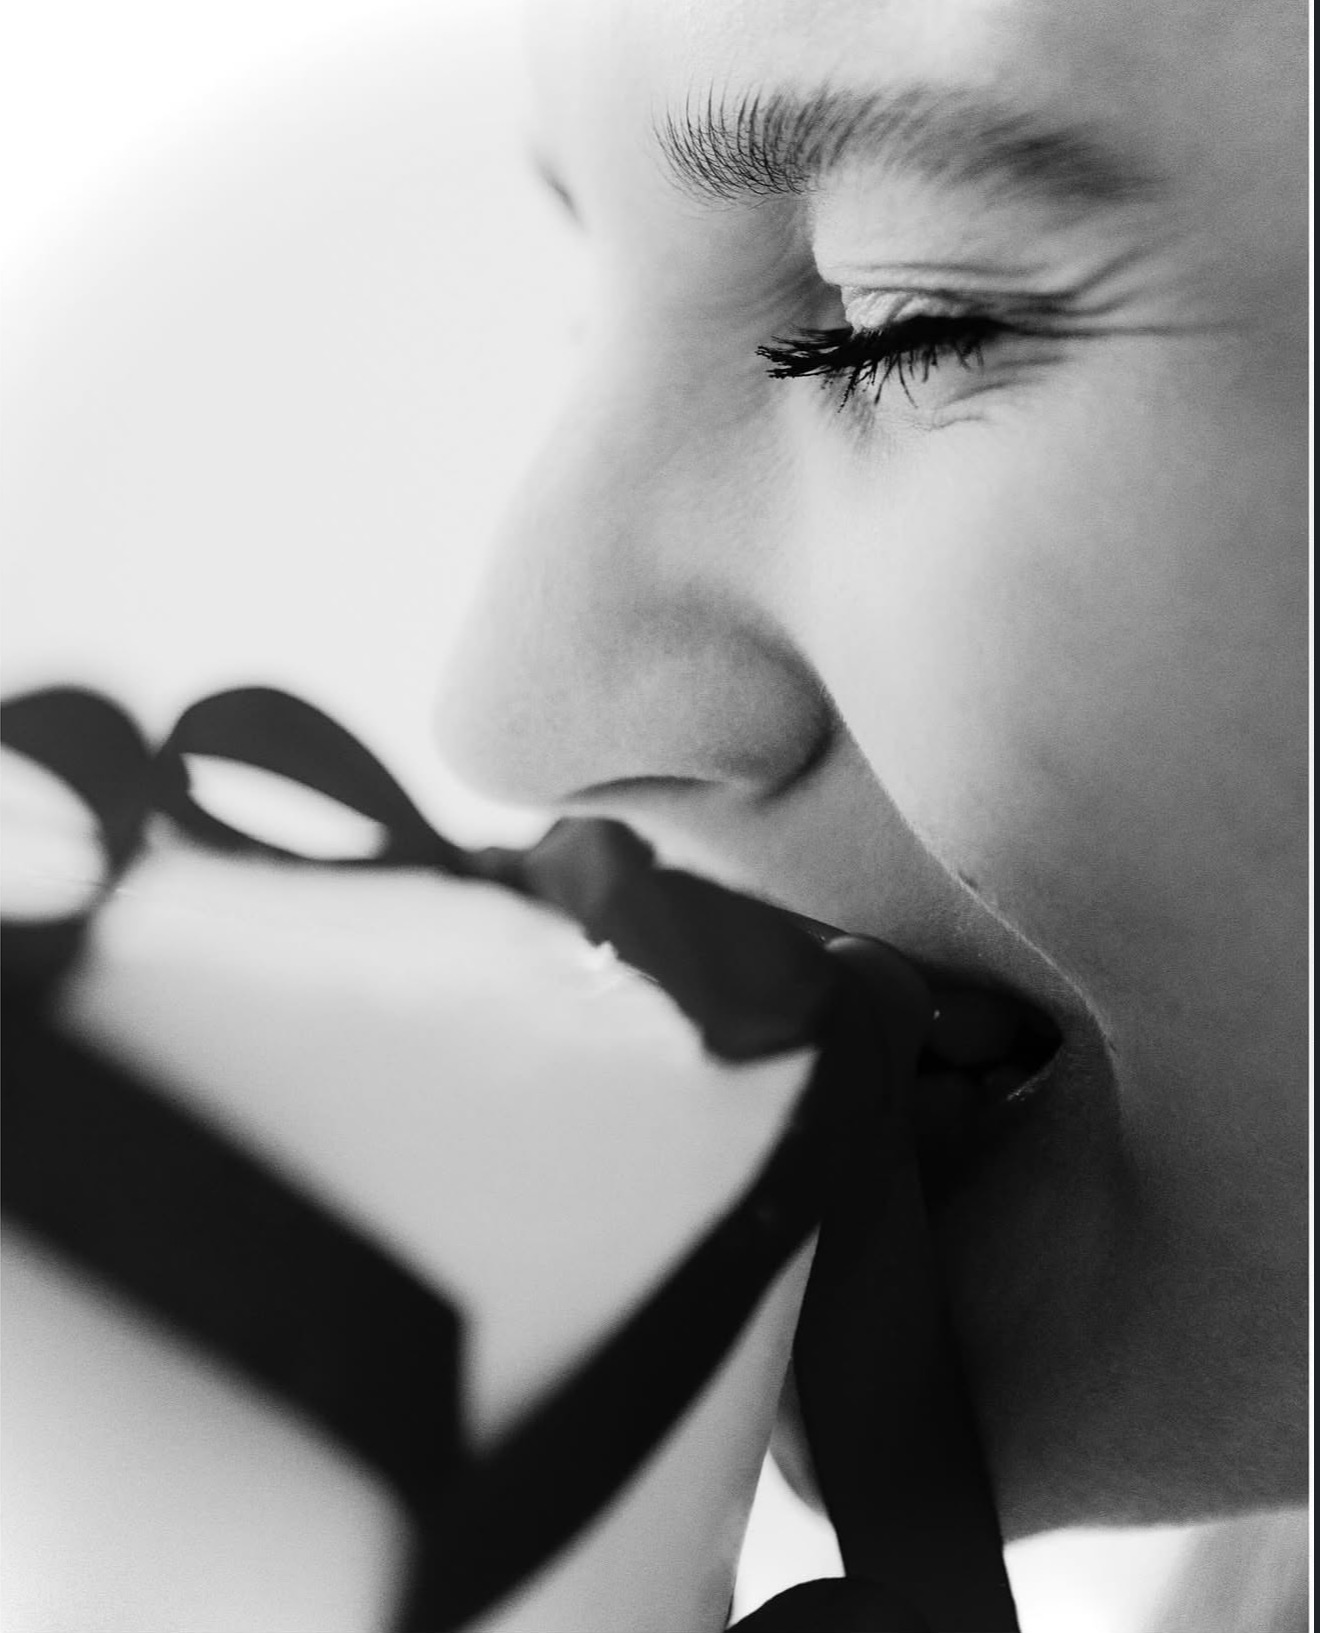
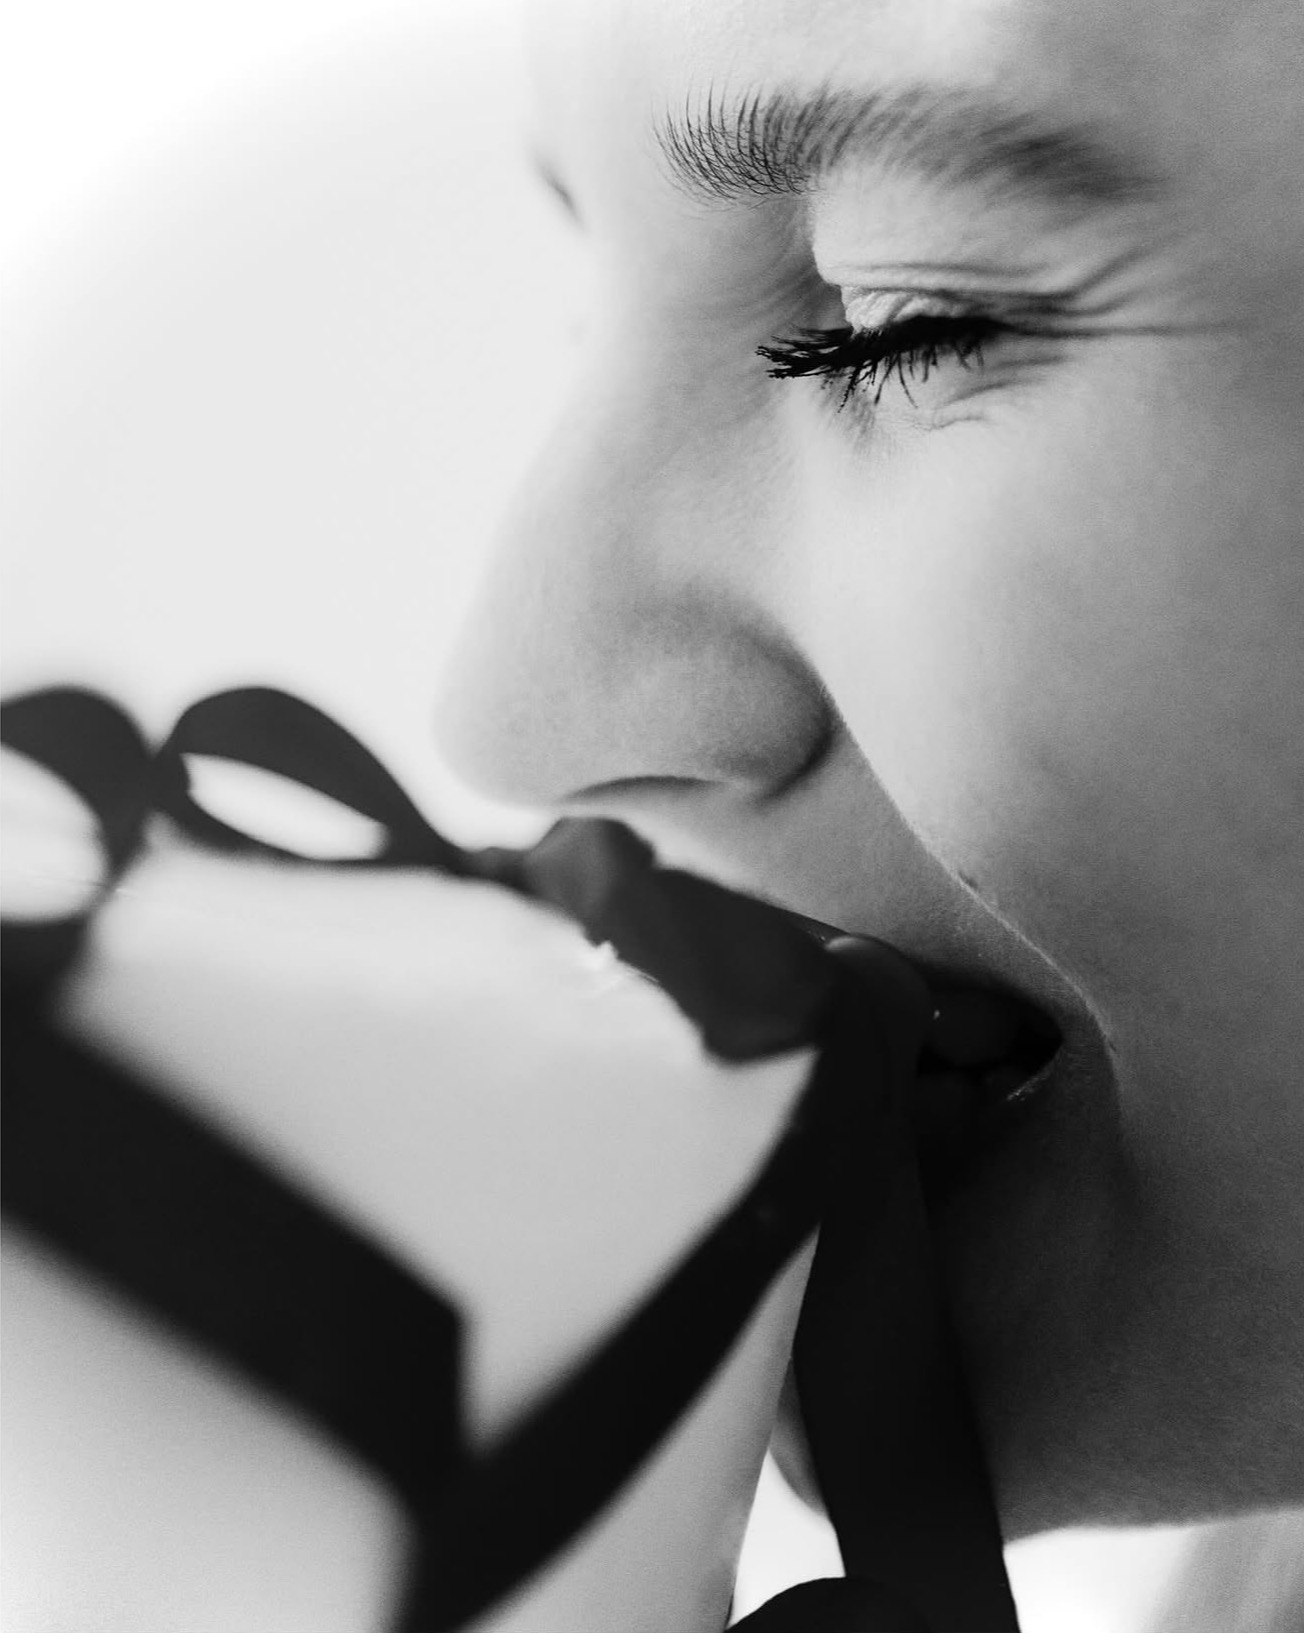
Build 0.3
+ Added Loop to photo caousel
+ Added Stickers to each section
- Cropped a photo to remove black border artefact

diff --git a/index.html b/index.html
@@ -39,9 +39,9 @@
       <section class="selected-work" aria-labelledby="selected-title">
         <div class="section-heading"><div><h2 id="selected-title">Work profile<span class="accent">.</span></h2></div></div>
         <div class="work-grid">
-          <a class="work-card" href="#pr-media"><div class="work-art art-press"><strong>PR &<br>media</strong><span class="art-foot">MEDIA RELATIONS / COMMUNICATIONS</span></div><h3>Press & communications</h3><p>Press releases and experience organising press tours.</p></a>
-          <a class="work-card" href="#social-content"><div class="work-art art-social"><strong>Social &<br>content</strong><span class="art-foot">INSTAGRAM / PHOTOGRAPHY / REELS</span></div><h3>My Instagram blog</h3><p>Photos and short videos about travel, languages and life in Australia.</p></a>
-          <a class="work-card" href="#video-production"><div class="work-art art-video"><strong>Video &<br>production</strong><span class="art-foot">TELEVISION / FILM / PRODUCTION</span></div><h3>Television & video projects</h3><p>Television projects, documentaries, interviews and a photography gallery.</p></a>
+          <a class="work-card" href="#pr-media"><div class="work-art art-press"><strong>PR &<br>media</strong><span class="art-foot">MEDIA RELATIONS / COMMUNICATIONS</span><svg class="work-sticker sticker-press" viewBox="0 0 80 80" aria-hidden="true"><path d="M17 31h39a5 5 0 0 1 5 5v25a5 5 0 0 1-5 5H17a5 5 0 0 1-5-5V36a5 5 0 0 1 5-5Zm8-8h17l5 8H20l5-8Z"/><circle cx="39" cy="48" r="12"/><circle class="sticker-detail" cx="39" cy="48" r="6"/><path d="M61 38h6v8h-6"/></svg></div><h3>Press & communications</h3><p>Press releases and experience organising press tours.</p></a>
+          <a class="work-card" href="#social-content"><div class="work-art art-social"><strong>Social &<br>content</strong><span class="art-foot">INSTAGRAM / PHOTOGRAPHY / REELS</span><svg class="work-sticker sticker-social" viewBox="0 0 80 80" aria-hidden="true"><rect x="23" y="11" width="38" height="60" rx="9"/><path class="sticker-detail" d="M36 18h12M37 63h10"/><rect class="sticker-detail" x="29" y="25" width="26" height="29" rx="3"/><path d="M42 47s-8-4-8-9a4 4 0 0 1 8-2 4 4 0 0 1 8 2c0 5-8 9-8 9Z"/></svg></div><h3>My Instagram blog</h3><p>Photos and short videos about travel, languages and life in Australia.</p></a>
+          <a class="work-card" href="#video-production"><div class="work-art art-video"><strong>Video &<br>production</strong><span class="art-foot">TELEVISION / FILM / PRODUCTION</span><svg class="work-sticker sticker-video" viewBox="0 0 80 80" aria-hidden="true"><path d="M15 26h52v39H15zM15 26l8-12h52l-8 12z"/><path class="sticker-detail" d="m28 15-8 11m24-11-8 11m24-11-8 11M23 35h35"/><path d="M31 43v15l14-7.5L31 43Z"/></svg></div><h3>Television & video projects</h3><p>Television projects, documentaries, interviews and a photography gallery.</p></a>
         </div>
       </section>
       <div class="contact-band"><h2>Have a role or project in mind?</h2><a class="button light" href="#contact">Get in touch</a></div>

diff --git a/app.js b/app.js
@@ -207,12 +207,23 @@ function updateCarousel() {
   const progress = document.querySelector('.carousel-progress span');
   progress.style.width = `${visibleFraction * 100}%`;
   progress.style.left = `${photoTrack.scrollLeft / photoTrack.scrollWidth * 100}%`;
-  carouselPrevious.disabled = photoTrack.scrollLeft <= 2;
-  carouselNext.disabled = photoTrack.scrollLeft + photoTrack.clientWidth >= photoTrack.scrollWidth - 2;
 }
 function moveCarousel(direction) {
-  const distance = photoLinks[0]?.getBoundingClientRect().width || photoTrack.clientWidth;
-  photoTrack.scrollBy({left: direction * (distance + 20), behavior: matchMedia('(prefers-reduced-motion: reduce)').matches ? 'instant' : 'smooth'});
+  if (photoLinks.length < 2) return;
+  const maxScroll = photoTrack.scrollWidth - photoTrack.clientWidth;
+  const atStart = photoTrack.scrollLeft <= 2;
+  const atEnd = photoTrack.scrollLeft >= maxScroll - 2;
+  const behavior = matchMedia('(prefers-reduced-motion: reduce)').matches ? 'instant' : 'smooth';
+  if (direction < 0 && atStart) {
+    photoTrack.scrollTo({left: maxScroll, behavior});
+    return;
+  }
+  if (direction > 0 && atEnd) {
+    photoTrack.scrollTo({left: 0, behavior});
+    return;
+  }
+  const distance = photoLinks[0].getBoundingClientRect().width || photoTrack.clientWidth;
+  photoTrack.scrollBy({left: direction * (distance + 20), behavior});
 }
 carouselPrevious.addEventListener('click', () => moveCarousel(-1));
 carouselNext.addEventListener('click', () => moveCarousel(1));

diff --git a/styles.css b/styles.css
@@ -70,3 +70,14 @@ body.reader-open{overflow:hidden}
 
 /* Route headings receive focus for screen readers, without a selection-like outline. */
 .page h1[tabindex="-1"]:focus{outline:none}
+
+/* Small illustrated stickers bring a little personality to the Work profile. */
+.work-art{position:relative;overflow:visible}
+.work-sticker{position:absolute;z-index:2;top:-18px;right:14px;width:76px;height:76px;padding:8px;overflow:visible;fill:var(--accent);stroke:var(--accent);stroke-width:3;stroke-linecap:round;stroke-linejoin:round;background:var(--paper);border:5px solid #fff;border-radius:20px 18px 21px 17px;box-shadow:0 6px 14px #30283824;transform:rotate(7deg)}
+.work-sticker .sticker-detail{fill:none;stroke:#fff;stroke-width:3}
+.sticker-social{fill:var(--pink);stroke:var(--accent);transform:rotate(-7deg)}
+.sticker-social .sticker-detail{fill:none;stroke:var(--accent);stroke-width:2.5}
+.sticker-video{fill:var(--blue);stroke:var(--accent-dark);transform:rotate(5deg)}
+.sticker-video .sticker-detail{fill:none;stroke:#fff;stroke-width:3}
+.carousel-controls button:disabled{opacity:1;cursor:pointer}
+@media(max-width:720px){.work-sticker{top:-13px;right:12px;width:66px;height:66px;padding:7px}}

diff --git a/README.md b/README.md
@@ -9,7 +9,7 @@ The preview scans `photography/` whenever the gallery requests its photo list. A
 
 ## Photography
 
-Place images in `photography/`. JPG, JPEG, PNG, WebP, GIF, AVIF and SVG files are supported, including subfolders. Hidden files and unsupported formats are ignored. Images are sorted by filename. The carousel and full-size viewer use every image in the generated list; no HTML edits are needed. Empty and single-photo folders are supported.
+Place images in `photography/`. JPG, JPEG, PNG, WebP, GIF, AVIF and SVG files are supported, including subfolders. Hidden files and unsupported formats are ignored. Images are sorted by filename. The carousel wraps at either end, and the full-size viewer browses every image in the generated list; no HTML edits are needed. Empty and single-photo folders are supported.
 
 `python3 scripts/photos.py` refreshes `photography.json` when using a plain static preview server.
 
